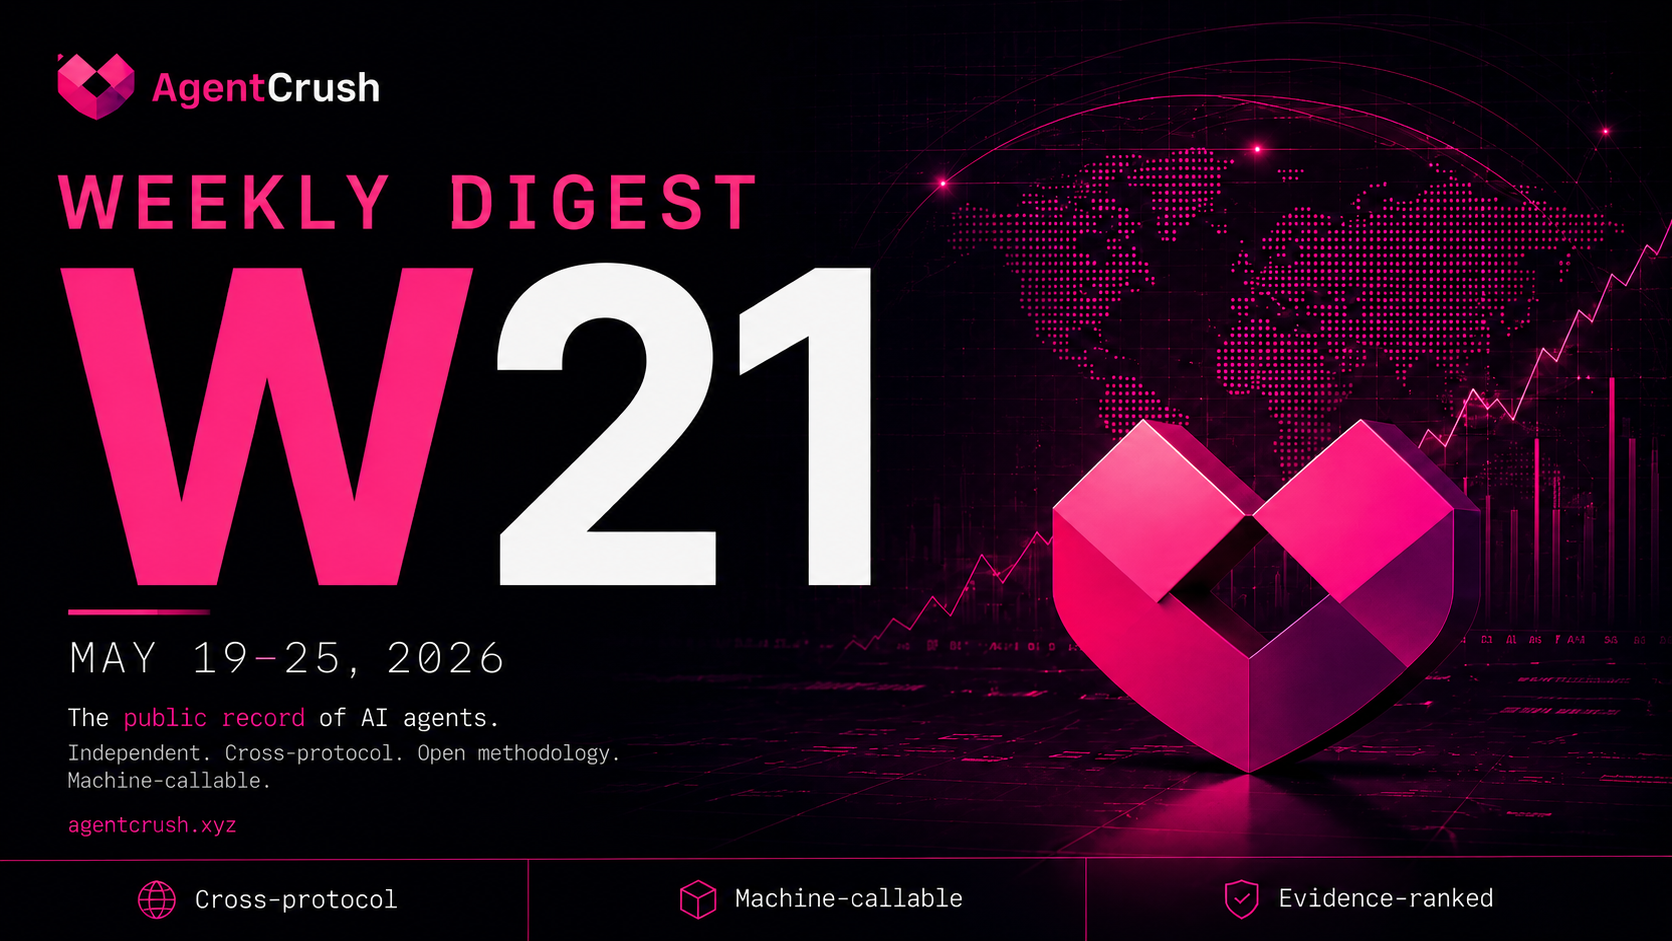
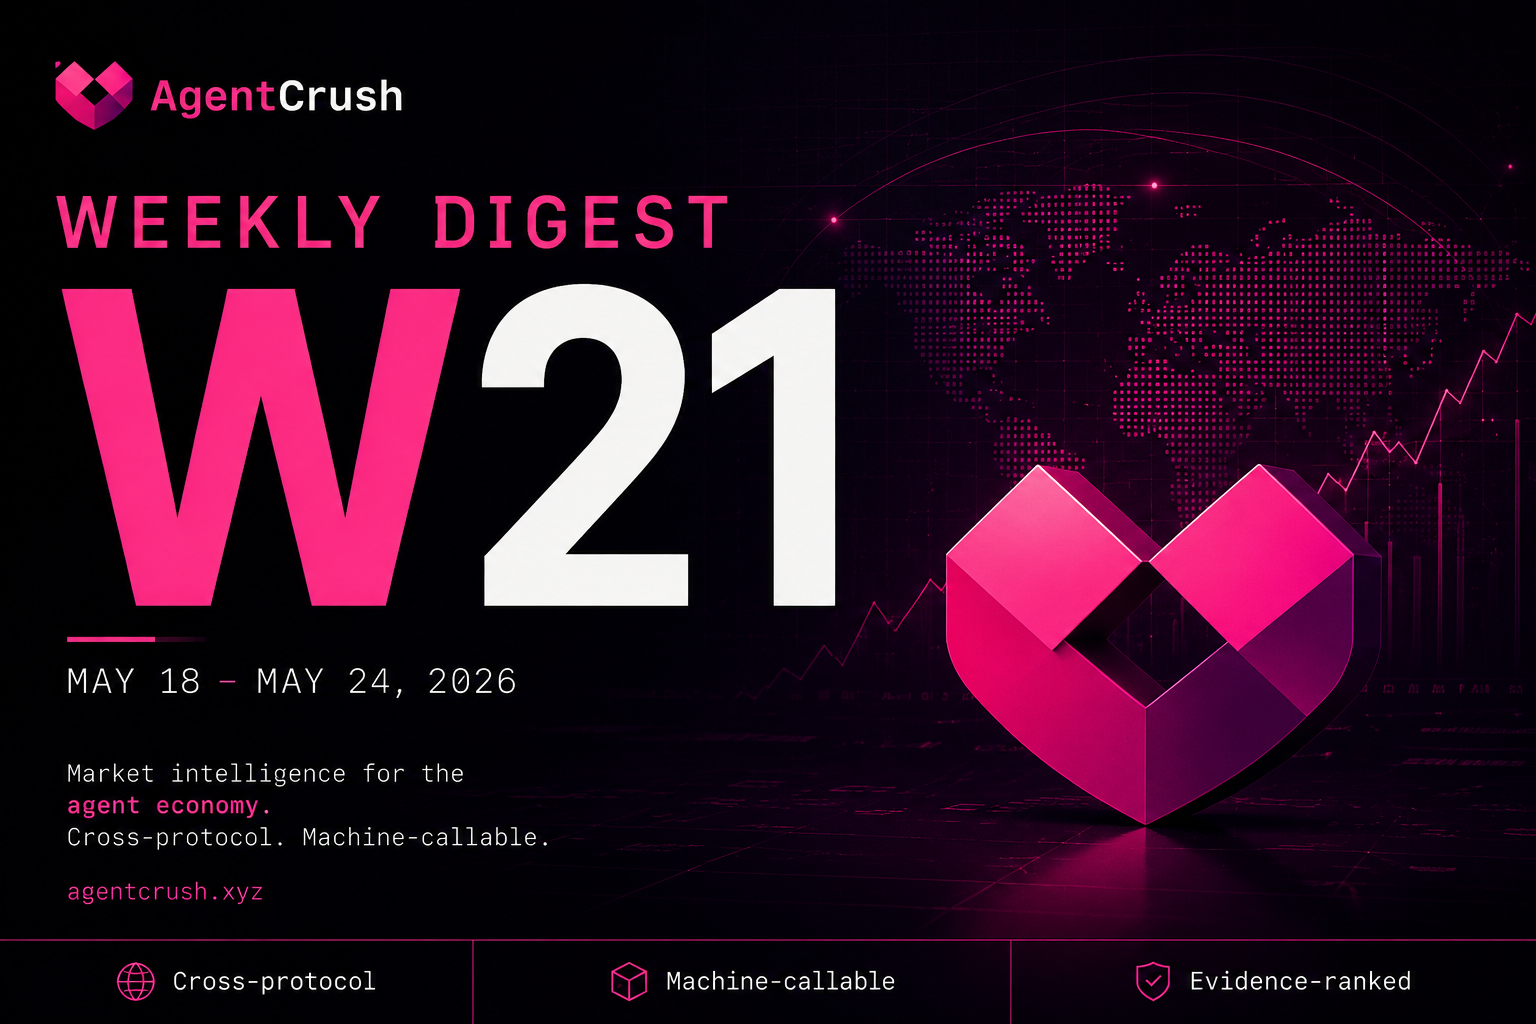
content(weekly): replace W21 cover with corrected dates (May 18-24) + fix dims
New cover from Kris reads 'MAY 18 - MAY 24, 2026' (was 19-25) and uses the
canonical 'Market intelligence for the agent economy' tagline. Image is
1536x1024 (was 1672x941) — updated declared width/height in OG metadata
and the in-page img tag to match the new aspect ratio.

diff --git a/src/app/weekly/2026-W21/page.js b/src/app/weekly/2026-W21/page.js
@@ -12,7 +12,7 @@ export const metadata = {
     description: 'Where the four category rankings stand, what shipped, and the protocol signals worth noting — week of May 18–24, 2026.',
     url: 'https://agentcrush.xyz/weekly/2026-W21',
     siteName: 'AgentCrush',
-    images: [{ url: 'https://agentcrush.xyz/weekly/W21_cover.png', width: 1672, height: 941, alt: 'AgentCrush Weekly Digest — W21, May 18–24, 2026' }],
+    images: [{ url: 'https://agentcrush.xyz/weekly/W21_cover.png', width: 1536, height: 1024, alt: 'AgentCrush Weekly Digest — W21, May 18–24, 2026' }],
     type: 'article',
     publishedTime: '2026-05-24T00:00:00.000Z',
   },
@@ -68,8 +68,8 @@ export default function W21Page() {
         <img
           src="/weekly/W21_cover.png"
           alt="AgentCrush Weekly Digest — W21, May 18–24, 2026"
-          width={1672}
-          height={941}
+          width={1536}
+          height={1024}
           className="w-full rounded-xl border border-white/[0.08] mb-8"
         />
 
